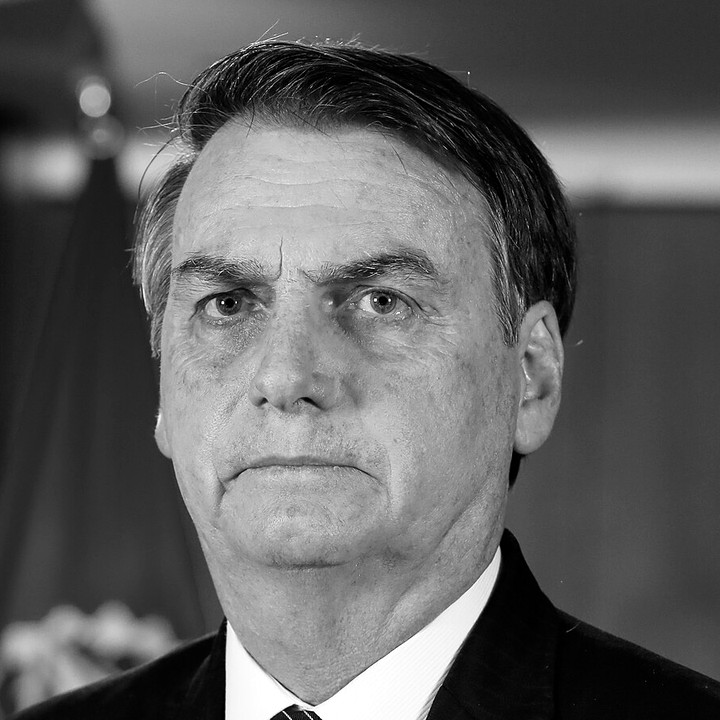
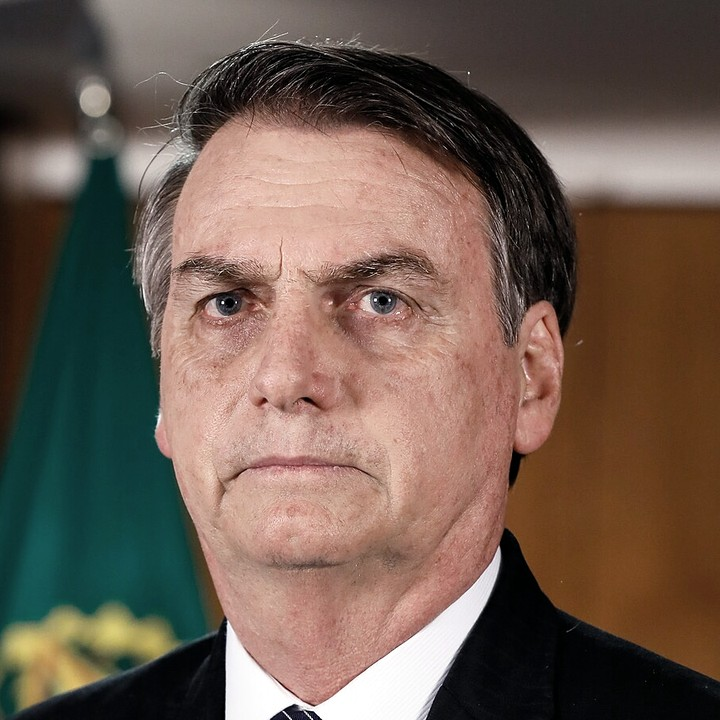
Presidential portraits: full grayscale -> light desaturation
The Custava Quanto Brand Book explicitly recommends "levemente
dessaturado, nunca preto e branco puro" for photography. Portraits were
being converted to full grayscale in the processing pipeline; changed
to a 35% blend toward grayscale instead (image blend, not a CSS filter),
keeping real color while still muting background elements (flag colors,
presidential sash) that would otherwise leak uncontrolled color into the
system.

Verified the change is real color, not just a lighter gray, by measuring
per-pixel RGB channel spread on the regenerated files (~52-55 average,
vs. 0 for true grayscale).

Also removed .gov-head / .gov-head img from styles.css: dead CSS from an
earlier card layout (no longer referenced in index.html or app.js),
noticed while working in the same area — it duplicated the grayscale
filter on top of the portrait images.

diff --git a/dashboard/styles.css b/dashboard/styles.css
@@ -344,8 +344,6 @@ ul { margin: 0; }
 .gov-cols { display: grid; grid-template-columns: 1fr 1fr; gap: 0; margin-top: 36px; border-top: 1px solid var(--line); }
 .gov { padding: 26px 36px 26px 0; }
 .gov + .gov { padding: 26px 0 26px 36px; border-left: 1px solid var(--line); }
-.gov-head { display: flex; align-items: center; gap: 12px; }
-.gov-head img { width: 44px; height: 44px; border-radius: 50%; object-fit: cover; filter: grayscale(1) contrast(1.05); border: 1px solid var(--line); flex-shrink: 0; }
 .gov-name { font-size: 0.8rem; font-weight: 700; letter-spacing: 0.1em; text-transform: uppercase; display: flex; align-items: center; gap: 8px; }
 .dot { width: 9px; height: 9px; border-radius: 50%; display: inline-block; flex-shrink: 0; }
 .bolsonaro .dot, .dot.bolsonaro { background: var(--p-bolsonaro); }

diff --git a/scripts/process_portraits.py b/scripts/process_portraits.py
@@ -8,9 +8,11 @@ Tratamento (o mesmo para os dois, sem alterar a aparência das pessoas):
   1. recorte quadrado com o rosto na mesma escala e posição (linha dos olhos
      a ~42% da altura, rosto ocupando ~50% da largura);
   2. redimensionamento para 720x720 px (nítido até ~360 px de tela em 2x);
-  3. conversão para monocromático com leve ajuste de contraste — tira as
-     cores de fundo (bandeira, faixa presidencial) para que a única cor
-     associada a cada período seja a de identificação do próprio site.
+  3. leve dessaturação com ajuste de contraste — reduz sem eliminar as
+     cores de fundo (bandeira, faixa presidencial), seguindo a diretriz do
+     Custava Quanto Brand Book ("tratamento levemente dessaturado, nunca
+     preto e branco puro"). DESSATURACAO = 0 (colorido original) a
+     1 (P&B total).
 """
 from pathlib import Path
 
@@ -25,15 +27,17 @@ RECORTES = {
     "lula": (122, 28, 856, 762),
 }
 LADO = 720
+DESSATURACAO = 0.35
 
 
 def processar(nome: str, caixa: tuple[int, int, int, int]) -> None:
     img = Image.open(PASTA / "originais" / f"{nome}.jpg").convert("RGB")
     img = img.crop(caixa).resize((LADO, LADO), Image.LANCZOS)
-    img = ImageOps.grayscale(img)
+    cinza = ImageOps.grayscale(img).convert("RGB")
+    img = Image.blend(img, cinza, DESSATURACAO)
     img = ImageOps.autocontrast(img, cutoff=0.5)
-    img.convert("RGB").save(PASTA / f"{nome}.jpg", quality=90, optimize=True, progressive=True)
-    print(f"{nome}: {caixa} -> {LADO}x{LADO}")
+    img.save(PASTA / f"{nome}.jpg", quality=90, optimize=True, progressive=True)
+    print(f"{nome}: {caixa} -> {LADO}x{LADO}, dessaturação {DESSATURACAO:.0%}")
 
 
 if __name__ == "__main__":
